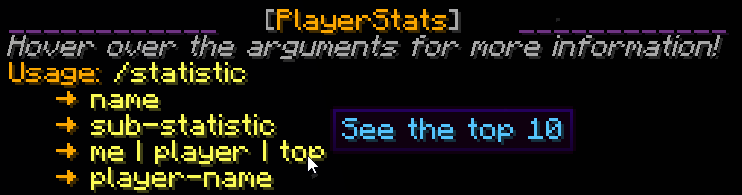
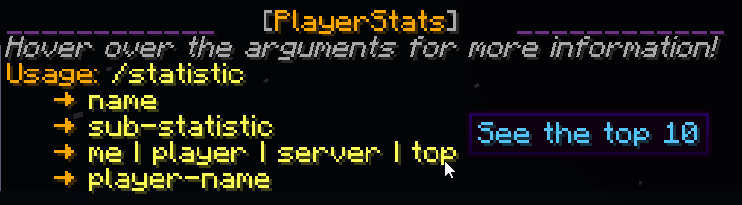
Release v1.2!

Changed region(s): [[0.0, 0.0308, 0.9919, 1.0], [0.6199, 0.4, 0.6509, 0.4308]]

diff --git a/src/main/java/com/gmail/artemis/the/gr8/playerstats/utils/MessageFactory.java b/src/main/java/com/gmail/artemis/the/gr8/playerstats/utils/MessageFactory.java
@@ -10,6 +10,7 @@ import net.kyori.adventure.text.format.TextColor;
 import net.kyori.adventure.text.format.TextDecoration;
 import net.kyori.adventure.util.Index;
 import org.bukkit.Bukkit;
+import org.bukkit.ChatColor;
 import org.bukkit.Statistic;
 import org.bukkit.map.MinecraftFont;
 import org.jetbrains.annotations.Nullable;
@@ -22,7 +23,7 @@ public class MessageFactory {
 
     private static ConfigHandler config;
 
-    private static final TextColor msgColor = TextColor.fromHexString("#55aaff");
+    private static final TextColor msgColor = TextColor.fromHexString("#55AAFF");
     private static final TextColor hoverBaseColor = TextColor.fromHexString("#55C6FF");
     private static final TextColor hoverAccentColor1 = TextColor.fromHexString("#FFB80E");
     private static final TextColor hoverAccentColor2 = TextColor.fromHexString("#FFD52B");
@@ -32,7 +33,11 @@ public class MessageFactory {
         config = c;
     }
 
-    private static TextComponent getPluginPrefix() {
+    public static String getPluginPrefix() {
+        return ChatColor.GRAY + "[" + ChatColor.GOLD + "PlayerStats" + ChatColor.GRAY + "] " + ChatColor.RESET;
+    }
+
+    private static TextComponent pluginPrefix() {
         return text("[")
                 .append(text("PlayerStats").color(NamedTextColor.GOLD))
                 .append(text("]")
@@ -41,34 +46,34 @@ public class MessageFactory {
     }
 
     public TextComponent reloadedConfig() {
-        return getPluginPrefix().append(text("Config reloaded!").color(NamedTextColor.GREEN));
+        return pluginPrefix().append(text("Config reloaded!").color(NamedTextColor.GREEN));
     }
 
     public TextComponent stillReloading() {
-        return getPluginPrefix().append(text("The plugin is still (re)loading, your request will be processed when it is done!").color(msgColor));
+        return pluginPrefix().append(text("The plugin is still (re)loading, your request will be processed when it is done!").color(msgColor));
     }
 
     public TextComponent partiallyReloaded() {
-        return getPluginPrefix().append(
+        return pluginPrefix().append(
                 text("The reload process was interrupted. If you notice unexpected behavior, please reload PlayerStats again to fix it!").color(msgColor));
     }
 
     public TextComponent waitAMoment(boolean longWait) {
-        return longWait ? getPluginPrefix().append(text("Calculating statistics, this may take a minute...").color(msgColor))
-                : getPluginPrefix().append(text("Calculating statistics, this may take a few moments...").color(msgColor));
+        return longWait ? pluginPrefix().append(text("Calculating statistics, this may take a minute...").color(msgColor))
+                : pluginPrefix().append(text("Calculating statistics, this may take a few moments...").color(msgColor));
     }
 
     public TextComponent formatExceptions(String exception) {
-        return getPluginPrefix().append(text(exception).color(msgColor));
+        return pluginPrefix().append(text(exception).color(msgColor));
     }
 
     public TextComponent missingStatName() {
-        return getPluginPrefix().append(text("Please provide a valid statistic name!").color(msgColor));
+        return pluginPrefix().append(text("Please provide a valid statistic name!").color(msgColor));
     }
 
     public TextComponent missingSubStatName(Statistic.Type statType) {
         String subStat = getSubStatTypeName(statType) == null ? "sub-statistic" : getSubStatTypeName(statType);
-        return getPluginPrefix()
+        return pluginPrefix()
                 .append(text("Please add a valid ")
                         .append(text(subStat))
                         .append(text(" to look up this statistic!")))
@@ -76,12 +81,12 @@ public class MessageFactory {
     }
 
     public TextComponent missingPlayerName() {
-        return getPluginPrefix().append(text("Please specify a valid player-name!").color(msgColor));
+        return pluginPrefix().append(text("Please specify a valid player-name!").color(msgColor));
     }
 
     public TextComponent wrongSubStatType(Statistic.Type statType, String subStatEntry) {
         String subStat = getSubStatTypeName(statType) == null ? "sub-statistic for this statistic" : getSubStatTypeName(statType);
-        return getPluginPrefix()
+        return pluginPrefix()
                 .append(text("\"")
                         .append(text(subStatEntry))
                         .append(text("\""))
@@ -91,7 +96,7 @@ public class MessageFactory {
     }
 
     public TextComponent unknownError() {
-        return getPluginPrefix()
+        return pluginPrefix()
                 .append(text("Something went wrong with your request, please try again or see /statistic for a usage explanation!")
                         .color(msgColor));
     }
@@ -104,7 +109,7 @@ public class MessageFactory {
 
 
         return Component.newline()
-                .append(underscores).append(spaces).append(getPluginPrefix()).append(spaces).append(underscores)
+                .append(underscores).append(spaces).append(pluginPrefix()).append(spaces).append(underscores)
                 .append(newline())
                 .append(text("Hover over the arguments for more information!").color(NamedTextColor.GRAY).decorate(TextDecoration.ITALIC))
                 .append(newline())
@@ -169,7 +174,7 @@ public class MessageFactory {
     public TextComponent formatTopStats(LinkedHashMap<String, Integer> topStats, String statName, String subStatEntryName) {
         TextComponent.Builder topList = Component.text();
 
-        topList.append(newline()).append(getPluginPrefix())
+        topList.append(newline()).append(pluginPrefix())
                 .append(titleComponent(Query.TOP, "Top")).append(space())
                 .append(titleNumberComponent(topStats.size())).append(space())
                 .append(statNameComponent(Query.TOP, statName)).append(space())
@@ -208,7 +213,7 @@ public class MessageFactory {
 
     public TextComponent formatServerStat(String statName, String subStatEntry, int stat) {
         TextComponent.Builder serverStat = Component.text();
-        serverStat.append(titleComponent(Query.SERVER, "Total for"))
+        serverStat.append(titleComponent(Query.SERVER, config.getServerTitle()))
                 .append(space())
                 .append(serverNameComponent())
                 .append(space())

diff --git a/src/main/java/com/gmail/artemis/the/gr8/playerstats/statistic/StatThread.java b/src/main/java/com/gmail/artemis/the/gr8/playerstats/statistic/StatThread.java
@@ -2,7 +2,6 @@ package com.gmail.artemis.the.gr8.playerstats.statistic;
 
 import com.gmail.artemis.the.gr8.playerstats.Main;
 import com.gmail.artemis.the.gr8.playerstats.enums.Query;
-import com.gmail.artemis.the.gr8.playerstats.filehandlers.TestFileHandler;
 import com.gmail.artemis.the.gr8.playerstats.reload.ReloadThread;
 import com.gmail.artemis.the.gr8.playerstats.ThreadManager;
 import com.gmail.artemis.the.gr8.playerstats.filehandlers.ConfigHandler;
@@ -28,19 +27,17 @@ public class StatThread extends Thread {
 
     private final BukkitAudiences adventure;
     private static ConfigHandler config;
-    private static TestFileHandler testFile;
     private final MessageFactory messageFactory;
     private final Main plugin;
 
     //constructor (called on thread creation)
-    public StatThread(int threshold, StatRequest s, @Nullable ReloadThread r, BukkitAudiences b, ConfigHandler c, TestFileHandler t, MessageFactory o, Main p) {
+    public StatThread(int threshold, StatRequest s, @Nullable ReloadThread r, BukkitAudiences b, ConfigHandler c, MessageFactory o, Main p) {
         this.threshold = threshold;
         request = s;
         reloadThread = r;
 
         adventure = b;
         config = c;
-        testFile = t;
         messageFactory = o;
         plugin = p;
         plugin.getLogger().info("StatThread created!");
@@ -76,7 +73,7 @@ public class StatThread extends Thread {
             if (ThreadManager.getLastRecordedCalcTime() > 20000) {
                 adventure.sender(sender).sendMessage(messageFactory.waitAMoment(true));
             }
-            else if (ThreadManager.getLastRecordedCalcTime() > 1500) {
+            else if (ThreadManager.getLastRecordedCalcTime() > 2000) {
                 adventure.sender(sender).sendMessage(messageFactory.waitAMoment(false));
             }
 
@@ -91,7 +88,6 @@ public class StatThread extends Thread {
                 }
 
             } catch (ConcurrentModificationException e) {
-                testFile.logRunCount(true);
                 adventure.sender(sender).sendMessage(messageFactory.unknownError());
             } catch (Exception e) {
                 adventure.sender(sender).sendMessage(messageFactory.formatExceptions(e.toString()));
@@ -141,8 +137,6 @@ public class StatThread extends Thread {
             throw new ConcurrentModificationException(e.toString());
         }
 
-        testFile.saveTimeTaken(System.currentTimeMillis() - time, 3);
-        testFile.logRunCount(false);
         ThreadManager.recordCalcTime(System.currentTimeMillis() - time);
         plugin.logTimeTaken("StatThread", "calculating all stats", time);
 

diff --git a/src/main/java/com/gmail/artemis/the/gr8/playerstats/reload/ReloadThread.java b/src/main/java/com/gmail/artemis/the/gr8/playerstats/reload/ReloadThread.java
@@ -3,7 +3,6 @@ package com.gmail.artemis.the.gr8.playerstats.reload;
 import com.gmail.artemis.the.gr8.playerstats.Main;
 import com.gmail.artemis.the.gr8.playerstats.ThreadManager;
 import com.gmail.artemis.the.gr8.playerstats.filehandlers.ConfigHandler;
-import com.gmail.artemis.the.gr8.playerstats.filehandlers.TestFileHandler;
 import com.gmail.artemis.the.gr8.playerstats.statistic.StatThread;
 import com.gmail.artemis.the.gr8.playerstats.utils.MessageFactory;
 import com.gmail.artemis.the.gr8.playerstats.utils.OfflinePlayerHandler;
@@ -24,7 +23,6 @@ public class ReloadThread extends Thread {
 
     private final BukkitAudiences adventure;
     private static ConfigHandler config;
-    private static TestFileHandler testFile;
     private final MessageFactory messageFactory;
     private final Main plugin;
 
@@ -32,11 +30,10 @@ public class ReloadThread extends Thread {
     private final CommandSender sender;
     private final boolean firstTimeLoading;
 
-    public ReloadThread(int threshold, BukkitAudiences b, ConfigHandler c, TestFileHandler t, MessageFactory m, Main p, @Nullable StatThread s, @Nullable CommandSender se, boolean firstTime) {
+    public ReloadThread(int threshold, BukkitAudiences b, ConfigHandler c, MessageFactory m, Main p, @Nullable StatThread s, @Nullable CommandSender se, boolean firstTime) {
         this.threshold = threshold;
         adventure = b;
         config = c;
-        testFile = t;
         messageFactory = m;
         plugin = p;
 
@@ -73,7 +70,6 @@ public class ReloadThread extends Thread {
                     }
                 }
 
-                testFile.saveTimeTaken(System.currentTimeMillis() - time, 2);
                 plugin.getLogger().info("Amount of relevant players: " + OfflinePlayerHandler.getOfflinePlayerCount());
                 plugin.logTimeTaken("ReloadThread", "loading offline players", time);
                 if (sender != null) {
@@ -85,8 +81,6 @@ public class ReloadThread extends Thread {
             plugin.getLogger().info("Loading offline players...");
             OfflinePlayerHandler.updateOfflinePlayerList(getPlayerMap(true));
 
-            testFile.saveThreshold(OfflinePlayerHandler.getOfflinePlayerCount(), threshold);
-            testFile.saveTimeTaken(System.currentTimeMillis() - time, 1);
             plugin.getLogger().info("Amount of relevant players: " + OfflinePlayerHandler.getOfflinePlayerCount());
             plugin.logTimeTaken("ReloadThread", "loading offline players", time);
             ThreadManager.recordCalcTime(System.currentTimeMillis() - time);

diff --git a/src/main/java/com/gmail/artemis/the/gr8/playerstats/ThreadManager.java b/src/main/java/com/gmail/artemis/the/gr8/playerstats/ThreadManager.java
@@ -1,7 +1,6 @@
 package com.gmail.artemis.the.gr8.playerstats;
 
 import com.gmail.artemis.the.gr8.playerstats.filehandlers.ConfigHandler;
-import com.gmail.artemis.the.gr8.playerstats.filehandlers.TestFileHandler;
 import com.gmail.artemis.the.gr8.playerstats.reload.ReloadThread;
 import com.gmail.artemis.the.gr8.playerstats.statistic.StatRequest;
 import com.gmail.artemis.the.gr8.playerstats.statistic.StatThread;
@@ -17,7 +16,6 @@ public class ThreadManager {
     private final Main plugin;
     private final BukkitAudiences adventure;
     private static ConfigHandler config;
-    private static TestFileHandler testFile;
     private final MessageFactory messageFactory;
 
     private ReloadThread reloadThread;
@@ -30,17 +28,16 @@ public class ThreadManager {
         config = c;
         messageFactory = m;
 
-        testFile = new TestFileHandler(plugin);
         startReloadThread(null, true);
     }
 
     public void startReloadThread(CommandSender sender, boolean firstTimeLoading) {
-        reloadThread = new ReloadThread(threshold, adventure, config, testFile, messageFactory, plugin, statThread, sender, firstTimeLoading);
+        reloadThread = new ReloadThread(threshold, adventure, config, messageFactory, plugin, statThread, sender, firstTimeLoading);
         reloadThread.start();
     }
 
     public void startStatThread(StatRequest request) {
-        statThread = new StatThread(threshold, request, reloadThread, adventure, config, testFile, messageFactory, plugin);
+        statThread = new StatThread(threshold, request, reloadThread, adventure, config, messageFactory, plugin);
         statThread.start();
     }
 

diff --git a/src/main/java/com/gmail/artemis/the/gr8/playerstats/listeners/JoinListener.java b/src/main/java/com/gmail/artemis/the/gr8/playerstats/listeners/JoinListener.java
@@ -1,6 +1,9 @@
 package com.gmail.artemis.the.gr8.playerstats.listeners;
 
 import com.gmail.artemis.the.gr8.playerstats.ThreadManager;
+import com.gmail.artemis.the.gr8.playerstats.filehandlers.ConfigHandler;
+import com.gmail.artemis.the.gr8.playerstats.utils.MessageFactory;
+import org.bukkit.ChatColor;
 import org.bukkit.event.EventHandler;
 import org.bukkit.event.Listener;
 import org.bukkit.event.player.PlayerJoinEvent;
@@ -8,9 +11,11 @@ import org.bukkit.event.player.PlayerJoinEvent;
 
 public class JoinListener implements Listener {
 
+    private static ConfigHandler config;
     private final ThreadManager threadManager;
 
-    public JoinListener(ThreadManager t) {
+    public JoinListener(ConfigHandler c, ThreadManager t) {
+        config = c;
         threadManager = t;
     }
 
@@ -18,6 +23,12 @@ public class JoinListener implements Listener {
     public void onPlayerJoin(PlayerJoinEvent joinEvent) {
         if (!joinEvent.getPlayer().hasPlayedBefore()) {
             threadManager.startReloadThread(null, false);
+        }
+
+        else if (joinEvent.getPlayer().isOp() && !config.isConfigUpdated()) {
+            joinEvent.getPlayer().sendMessage(MessageFactory.getPluginPrefix() + ChatColor.GRAY + ChatColor.ITALIC +
+                    "Your config version is outdated! " +
+                    "Please delete your current config.yml (or rename it/copy it to another folder) and do /statreload");
         }
     }
 }

diff --git a/src/main/java/com/gmail/artemis/the/gr8/playerstats/filehandlers/ConfigHandler.java b/src/main/java/com/gmail/artemis/the/gr8/playerstats/filehandlers/ConfigHandler.java
@@ -19,7 +19,21 @@ public class ConfigHandler {
     public ConfigHandler(Main p) {
         plugin = p;
         saveDefaultConfig();
+
         config = YamlConfiguration.loadConfiguration(configFile);
+        checkConfigVersion();
+    }
+
+    public boolean isConfigUpdated() {
+        return config.contains("config-version");
+    }
+
+    /** Sends a message in console if the latest version of the config is not present */
+    private void checkConfigVersion() {
+        if (!config.contains("config-version")) {
+            plugin.getLogger().warning("Your config version is outdated! " +
+                    "Please delete your current config.yml (or rename it/copy it to another folder) and do /statreload");
+        }
     }
 
     /** Reloads the config from file, or creates a new file with default values if there is none. */
@@ -65,6 +79,11 @@ public class ConfigHandler {
     /** Returns the specified server name, or "this server" if no value can be retrieved. */
     public String getServerName() {
         return config.getString("your-server-name", "this server");
+    }
+
+
+    public String getServerTitle() {
+        return config.getString("total-server-stat-title", "In total on");
     }
 
     /** Returns a String that represents either a Chat Color, hex color code, or Style. Default values are "none" for Style,

diff --git a/src/main/java/com/gmail/artemis/the/gr8/playerstats/statistic/TopStatAction.java b/src/main/java/com/gmail/artemis/the/gr8/playerstats/statistic/TopStatAction.java
@@ -20,11 +20,10 @@ public class TopStatAction extends RecursiveAction {
     /**
      * Gets the statistic numbers for all players whose name is on the list, puts them in a ConcurrentHashMap
      * using the default ForkJoinPool, and returns the ConcurrentHashMap when everything is done
-     * @param playerNames List of playerNames of players that should be included in the stat calculations
+     * @param playerNames ImmutableList of playerNames of players that should be included in the stat calculations
      * @param statRequest a validated statRequest
      * @param playerStats the ConcurrentHashMap to put the results on
      */
-
     public TopStatAction(int threshold, ImmutableList<String> playerNames, StatRequest statRequest, ConcurrentHashMap<String, Integer> playerStats) {
         this.threshold = threshold;
         this.playerNames = playerNames;

diff --git a/src/main/java/com/gmail/artemis/the/gr8/playerstats/Main.java b/src/main/java/com/gmail/artemis/the/gr8/playerstats/Main.java
@@ -46,7 +46,7 @@ public class Main extends JavaPlugin {
         if (reloadcmd != null) reloadcmd.setExecutor(new ReloadCommand(threadManager));
 
         //register the listener
-        Bukkit.getPluginManager().registerEvents(new JoinListener(threadManager), this);
+        Bukkit.getPluginManager().registerEvents(new JoinListener(config, threadManager), this);
         logTimeTaken("onEnable", "time taken", time);
         this.getLogger().info("Enabled PlayerStats!");
     }
